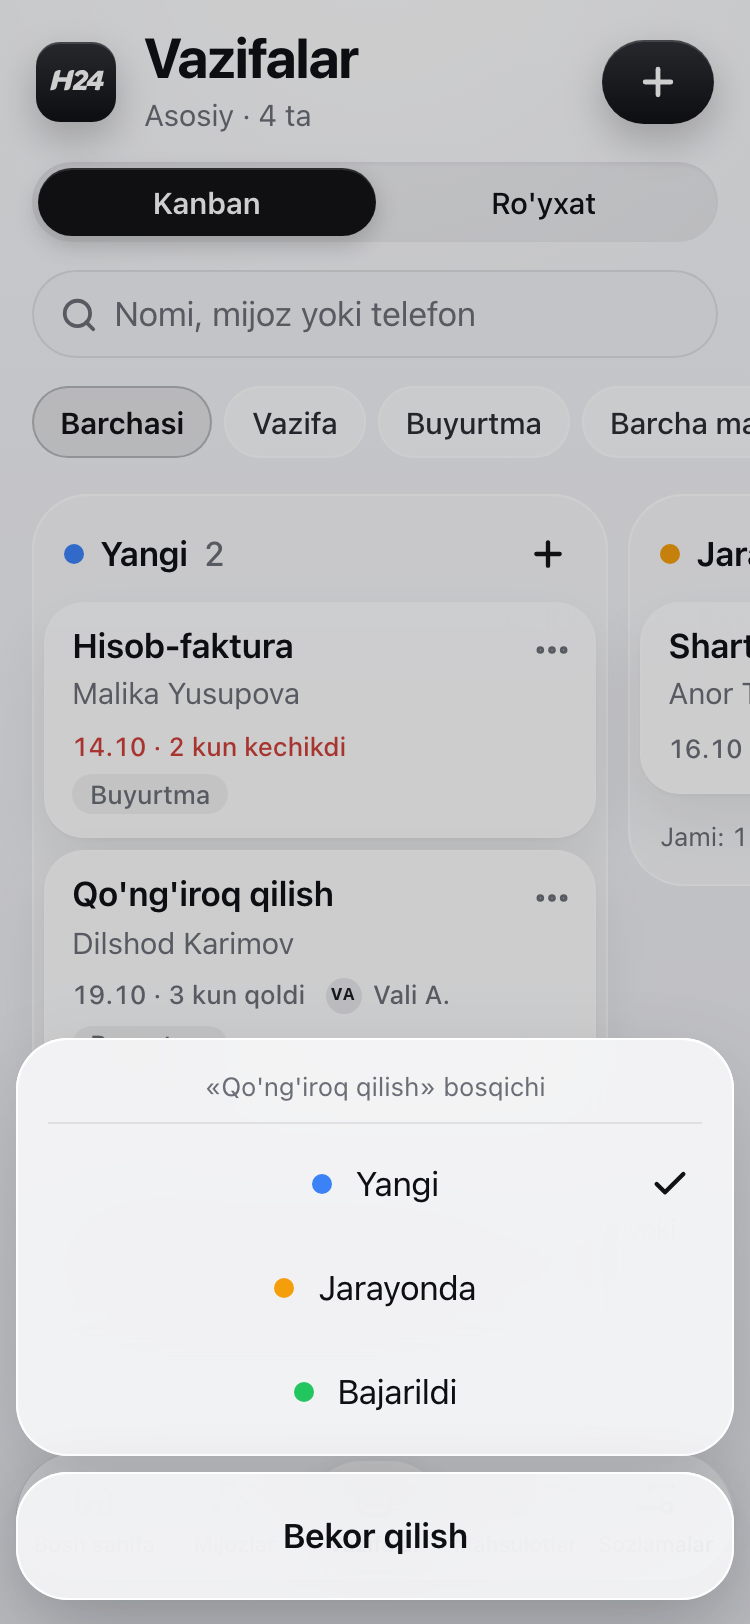
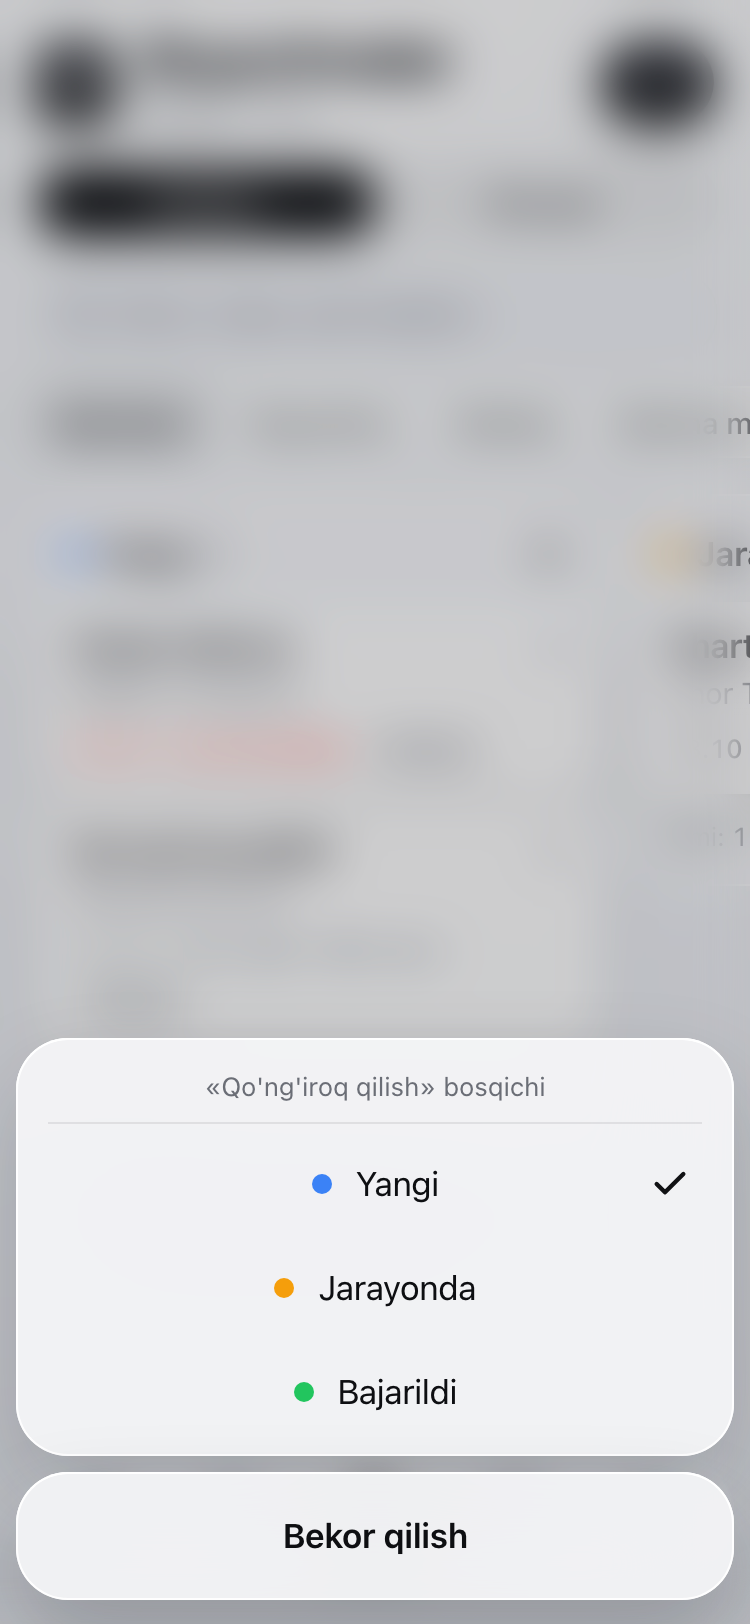
docs: the frosted scrim behind the modals
The glass v2 notes take the decisions (user app only, blur(12px)
saturate(1.6), the tint unchanged, every modal its own scrim), the
nested backdrop's forceRender and the RED → GREEN; the six modal shots
of screens-v2 show the blur.

Claude-Session: https://claude.ai/code/session_01SYEsVjdheYfKi2n8VW3Q8N

diff --git a/docs/superpowers/specs/2026-10-16-glass-v2-design.md b/docs/superpowers/specs/2026-10-16-glass-v2-design.md
@@ -240,3 +240,50 @@ Foydalanuvchi Mini App'da ikki narsani ko'rdi: tab almashganda sahifa bo'limlari
       - e2e qatlam testida ekranda turmagan bar (`display: none`, desktop) «chizilmagan» deb o'qiladi.
       - Yozuv o'tishning boshida qo'shiladi, shunda menyudan almashishning kech `ready` si keyingi sanoqqa tushmaydi.
     - Tekshiruv: `make lint`, unit (web 1153, admin 244), Go, `make e2e` (admin 46, web 150). Production build CSS'ida `:active-view-transition`, `view-transition-name:none!important` va `::view-transition-group(tab-bar)` saqlangan.
+
+### Modal ortidagi muzlagan fon (2026-10-18)
+
+Foydalanuvchining so'zlari: "modallar ochilganda qolgan joylar glassy blur bo'lib turishi kerak". Avval modal (varaq, tasdiq oynasi, amallar menyusi) ortidagi ekran faqat `--scrim` rangi bilan qoraytirilardi. Prototipning `.scrim` i ham faqat rang, shuning uchun blur foydalanuvchi talabi bilan prototipdan ataylab chetlanish.
+
+25. **Foydalanuvchi qarorlari** (savol-javob):
+    - Faqat user app. Admin paneldagi shadcn fonlarining 4px `backdrop-blur-xs` i qoladi.
+    - Kuch: `blur(12px) saturate(1.6)`, tepadagi fade bilan bir xil qiymat.
+    - `--scrim` rangi o'zgarmaydi: yorug'da `rgba(10,12,16,.2)`, qorong'ida `rgba(0,0,0,.55)`.
+    - Har modal o'z fonini chizadi: varaq ustida varaq ochilsa, pastdagisi ham xiralashadi. Prototipda ham har `.sheet-wrap` ning o'z `.scrim` i bor.
+    - Rad etilgan variantlar: 6px va 20px blur, yengilroq scrim, ichki varaqni fonsiz qoldirish.
+26. **`scrim` utility** (`globals.css`, `surface` yonida): `background-color: var(--scrim)`, `-webkit-backdrop-filter` va `backdrop-filter: blur(12px) saturate(1.6)`.
+    - Uchta fon `bg-scrim` o'rniga shuni oladi:
+      - `DialogOverlay`: hamma varaq, jumladan `PickerSheet`, `DateSheet`, `AmountSheet`;
+      - `AlertDialogOverlay`;
+      - `ActionSheet` foni (`data-slot="action-sheet-overlay"`).
+    - Class almashtiriladi, ikkalasi birga qo'yilmaydi (2-qaror).
+    - `--color-scrim` olib tashlandi, shuning uchun blur'siz `bg-scrim` endi yo'q.
+    - Animatsiya o'zgarmadi: fon opacity bilan chiqadi (300 / 200 / 250ms), blur ham shu bilan birga.
+    - Varaq rangi (`--sheet`, noshaffof, 1-qaror) o'zgarmadi.
+27. **Ichma-ich modal.**
+    - Base UI ichma-ich dialogning `Backdrop` ini chizmaydi: `enabled: forceRender || !nested`. Ichma-ich degani bitta `Dialog.Root` boshqasining React daraxti ichida turadi.
+    - Shuning uchun forma varag'idan ochilgan tanlov varag'i ortida forma varag'i tiniq va qoraytirilmagan qolardi (masalan «Xarajat qo'shish» → «Kategoriya»).
+    - Uchala fonga `forceRender` berildi. Ustki fon bosilsa, faqat ustki varaq yopiladi.
+    - Natijada sahifa ikki qavat qoraytiriladi: yorug'da ~36%, qorong'ida ~80%. Bu prototipdagi kabi.
+28. **Qatlamlar.** Fon `z-50` da turadi. Tab-bar (`z-20`), tepa panel (`z-15`), tepadagi fade (`z-10`) va sidebar blur ostida qoladi. Sonner toast'lari fon ustida turadi.
+29. **Testlar (RED → GREEN):**
+    - e2e `shell.spec.ts` «a modal frosts the rest of the screen…»:
+      - oqim: «Naqd» → «Xarajat» varag'i;
+      - tekshiruv: fonning computed `backdropFilter` i, «Kategoriya» ochilgach fonlar 2 ta;
+      - RED: telefon va desktopda `none`; varaq sikllaridan keyin GREEN.
+    - `globals.test.ts`: utility bloki va o'zgarmagan rang. RED: `@utility scrim {` yo'q edi.
+    - `dialog.test.tsx`:
+      - fon `scrim` (RED: faqat `bg-scrim`);
+      - varaq ustida varaq: 2 ta fon, ustkisi bosilsa faqat ustki varaq yopiladi (RED: 1 ta fon).
+    - `alert-dialog.test.tsx`:
+      - fon `scrim` (RED: `bg-scrim`);
+      - varaq ichidagi tasdiq oynasi o'z fonini chizadi (RED: 0 ta).
+    - `action-sheet.test.tsx`:
+      - varaq ichida o'z foni bor (RED: 0 ta);
+      - fon `scrim` (RED: `bg-scrim`).
+30. **Tekshiruv:**
+    - `make lint`, `make test` (web 1153 → 1160, admin 244, Go), `make e2e` (admin 46, web 154).
+    - Production `next build` CSS'ida `.scrim{background-color:var(--scrim);-webkit-backdrop-filter:blur(12px)saturate(1.6);backdrop-filter:blur(12px)saturate(1.6)}` bor, `bg-scrim` 0.
+    - Oldin/keyin skrinshotlar olindi: yorug' va qorong'i, 375px @2x va 1280px.
+    - `docs/design/screens-v2/` da 6 ta modal skrinshoti yangilandi: `21-customer-sheet`, `21-customer-dialog-wide`, `23-delete-alert`, `31-stage-action-sheet`, `55-payment-sheet`, `81-employee-sheet`.
+    - Lokalda faqat Chromium bor. iOS Telegram (WebKit) va arzon Android'dagi ko'rinish va silliqlikni foydalanuvchi haqiqiy qurilmada tekshiradi.

diff --git a/CLAUDE.md b/CLAUDE.md
@@ -126,4 +126,4 @@ make otp [ID=…]   # lokal: admin login kodi (faqat SMS_DRIVER=log; ID bo'lmasa
 - `docs/superpowers/specs/2026-10-13-mini-app-ui-design.md`: user app'ning Telegram Wallet (iOS guruhli ro'yxat) uslubidagi UI'si: tokenlar, `components/kit` to'plami (`Group` / `Row`, `PageTitle` / `BackLink`, `DetailHead` / `Tiles`, varaq-dialog, `PickerSheet`, `FormRow` oilasi, `MainButton`), suzuvchi tab-bar + profil sahifasi, sozlamalar va ombor hub sahifalari, `GET /app/dashboard`, BackButton, o'tish animatsiyalari (`PageTransition`, `lib/moves.ts`), bosqichlar. User app'ning har yangi ekrani shu hujjatga mos yoziladi (ranglari, yuzalari va to'liq ekrandagi tepasi 2026-10-16 dan `2026-10-16-liquid-glass-design.md` bo'yicha); admin panel bunga kirmaydi.
 - `docs/superpowers/specs/2026-10-15-tab-bar-menu-design.md`: user app'ning pastki paneli: a'zo tanlagan 4 tagacha sahifa (bo'lim yoki ichki sahifa; `tab_bar`, `PUT /app/me/tab-bar`) va doim oxirida «Sozlama» varag'i (hamma sahifa plitkalarda, qidiruv, «Pastki panelni sozlash»); sidebar standart tartibda, `/profile/menu` yo'q. Panel va menyuga tegadigan yangi kod shu hujjatga mos yoziladi; «Sozlama» varag'i, «Pastki panel» varag'i va 0–4 qoidasi 2026-10-16 dan `2026-10-16-glass-v2-design.md` bo'yicha («Sozlamalar» va «Pastki panel» sahifalari, panel doim to'la).
 - `docs/superpowers/specs/2026-10-16-liquid-glass-design.md`: user app'ning «liquid glass» ko'rinishi (prototipning 2026-10-16 versiyasi): «Yorug' shisha» / «Tungi shisha» tokenlari, ambient fon (`main` chizadi, sahifa varag'i faqat surilishda noshaffof), `surface` / `glossy` / `glossy-red` / `glass-chip` / `bg-ambient` utility'lari, kulrang avatarlar, tiniq shisha tab-bar, Telegram'da ilovaning o'z palitrasi va Telegram sarlavha ranglari, to'liq ekranda kontent tugmalar ostida + tepadagi fade, varaq chegarasi, kirish panelining yangi palitrasi. User app'ning yangi yuzasi, rangi yoki tugmasi shu hujjatga mos yoziladi; tungi palitra, tab-bar, plitka-ikonkalar, kirish paneli va desktop qobig'i 2026-10-16 (ikkinchi versiya) dan `2026-10-16-glass-v2-design.md` bo'yicha.
-- `docs/superpowers/specs/2026-10-16-glass-v2-design.md`: prototipning `1792163353` versiyasi: «Qorong'i shisha» tokenlari, konturli belgilar (`tab-icons`, fonsiz `TileIcon`), `BrandMark` va sarlavha, hero karta va `plain` varianti, tab-bar v2 (muzlagan pill, oq kapsula linza), «Sozlamalar» sahifasi va «Pastki panel» sahifasi (`/settings/tab-bar`, panel doim to'la), desktop qobig'i (suzuvchi sidebar, tepa panel: «Orqaga», mavzu, chiqish; 1120px ustun; o'rtadagi varaq). User app'ning yangi ekrani, rangi yoki navigatsiyasi shu hujjatga mos yoziladi.
+- `docs/superpowers/specs/2026-10-16-glass-v2-design.md`: prototipning `1792163353` versiyasi: «Qorong'i shisha» tokenlari, konturli belgilar (`tab-icons`, fonsiz `TileIcon`), `BrandMark` va sarlavha, hero karta va `plain` varianti, tab-bar v2 (muzlagan pill, oq kapsula linza), «Sozlamalar» sahifasi va «Pastki panel» sahifasi (`/settings/tab-bar`, panel doim to'la), desktop qobig'i (suzuvchi sidebar, tepa panel: «Orqaga», mavzu, chiqish; 1120px ustun; o'rtadagi varaq), modal ortidagi muzlagan fon (2026-10-18 dan: `scrim` utility, `blur(12px)`, har modal o'z fonini chizadi, varaq ustidagi varaq ham). User app'ning yangi ekrani, rangi yoki navigatsiyasi shu hujjatga mos yoziladi.

diff --git a/docs/design/README.md b/docs/design/README.md
@@ -41,6 +41,7 @@ User app prototipning 2026-10-16 dagi ikkinchi versiyasi (`1792163353`) bo'yicha
 - Mock ma'lumotlar bilan, «Olma Savdo» egasi (Ali Valiyev) ko'zi bilan; ikki lokatsiya («Asosiy», «Chilonzor»), xaridlar, sotuvlar, kassa hujjatlari, «Sotuvchi» roli.
 - Telefon: 375×812 pt, @2x. Keng ekran: 1280×800 px, @1x (web ko'rinishi: suzuvchi sidebar, tepa panel, 1120px ustun); `*-wide` — 1600×1000 px, ustun o'rtada. Uzun sahifalar to'liq bo'yi bilan.
 - «Yorug' shisha» mavzusida (kulrang-oq fon, oq kartalar, qora urg'u); «Qorong'i shisha» (deyarli qora fon, oq urg'u) va Telegram Mini App (to'liq ekran; Telegram'da ham ilovaning o'z ranglari) alohida ko'rsatilgan.
+- Modal (varaq, tasdiq oynasi, amallar menyusi) ortida ekranning qolgan qismi muzlagan shisha: `--scrim` rangi ostida 12px blur. Varaq ustida ochilgan varaq pastdagi varaqni ham xiralashtiradi. Bu 2026-10-18 dan, glass-v2 hujjatidagi 25–30-qarorlar. 21, 23, 31, 55 va 81-skrinshotlar shu holatda olingan.
 
 | Ekran | Telefon | Keng ekran |
 |---|---|---|
